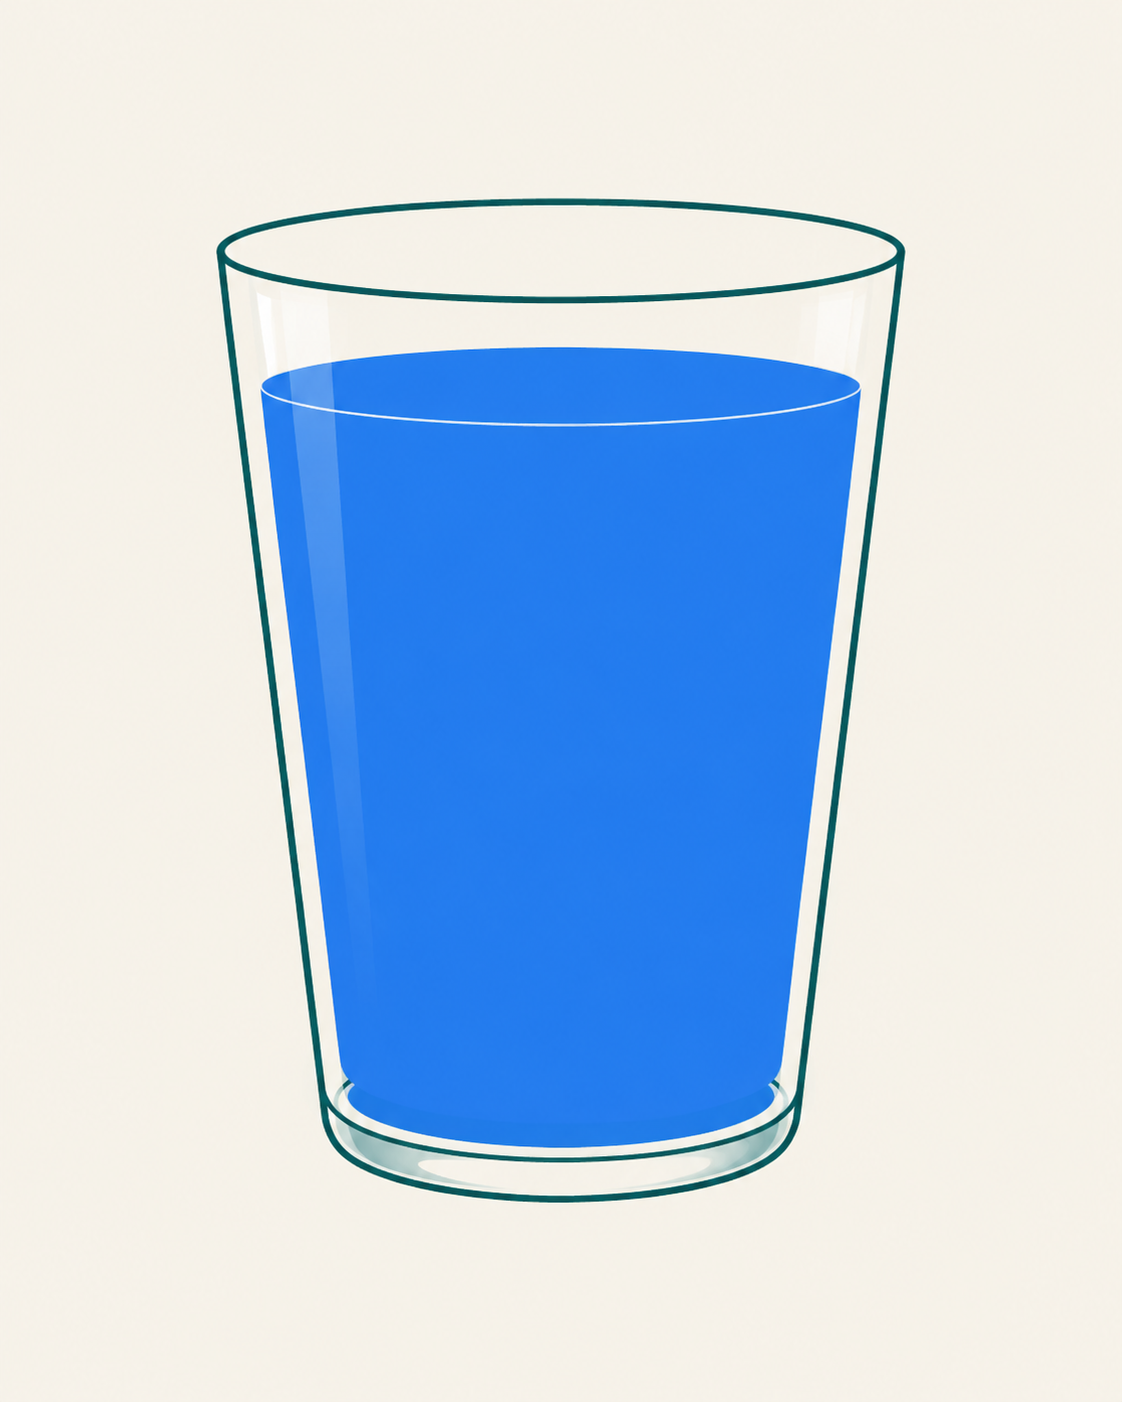
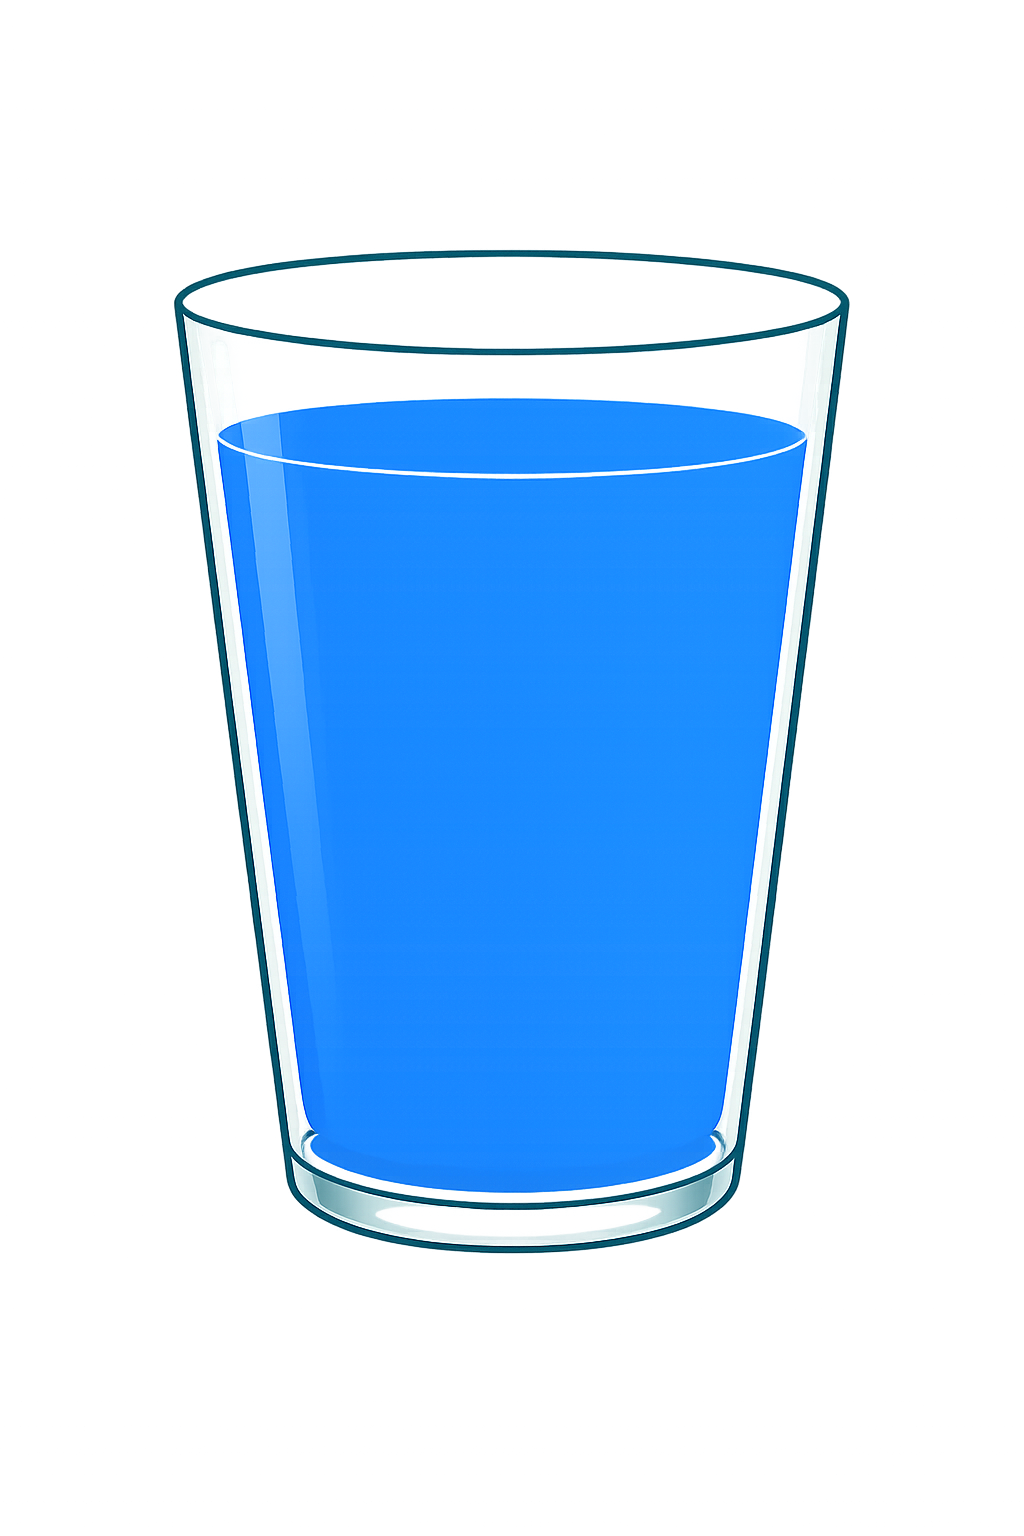
tootbrushing-article

Changed region(s): [[0.1562, 0.1227, 0.8438, 0.8588]]

diff --git a/public/index.html b/public/index.html
@@ -1,7 +1,7 @@
 <!DOCTYPE html>
 <html lang="en">
 <head>
-	<meta name="generator" content="Hugo 0.164.0">
+	<meta name="generator" content="Hugo 0.164.0"><script src="/everyday-data/livereload.js?mindelay=10&amp;v=2&amp;port=1313&amp;path=everyday-data/livereload" data-no-instant defer></script>
   <meta charset="UTF-8">
   <meta name="viewport" content="width=device-width, initial-scale=1.0">
 
@@ -17,7 +17,7 @@
   
   
   
-  <link rel="stylesheet" href="/everyday-data/css/main.min.16a58fdeeed42da3122b3e84695d9fd7b0bcafc7383375226e4e40d5474e558c.css" integrity="sha256-FqWP3u7ULaMSKz6EaV2f17C8r8c4M3Uibk5A1UdOVYw=">
+  <link rel="stylesheet" href="/everyday-data/css/main.min.5c8540642c759a1eeb943991c80d73c1410aba5d9dd9bb0a3038ad2ba4f3d525.css" integrity="sha256-XIVAZCx1mh7rlDmRyA1zwUEKul2d2bsKMDitK6Tz1SU=">
 
 </head>
 <body>
@@ -77,22 +77,24 @@
       <div class="articles-grid">
         
 
-          <div class="card">
+          <a href="/everyday-data/research/toothbrushing-water/" class="card">
             <div>
-              <div class="card-tag">Demo Article</div>
+              <div class="card-tag">
+                Research
+              </div>
 
-              <h2>Welcome to Everyday Data</h2>
+              <h2>Turning the Tap Off While Brushing Teeth</h2>
 
-              <p>
-                Add Markdown files to your content/ folder to see your research articles automatically appear here.
-              </p>
+              <p><p>{{ $glass := .Resources.GetMatch &ldquo;images/glass-250ml.png&rdquo; }}</p>
+<!-- raw HTML omitted -->
+<h1 id="how-much-water-can-one-person-save-while-brushing-teeth">How Much Water Can One Person Save While …</h1></!--></p>
             </div>
 
             <div class="card-footer">
-              <span>Today</span>
-              <span>1 min read</span>
+              <span>Aug 4, 2026</span>
+              <span>4 min read</span>
             </div>
-          </div>
+          </a>
 
         
       </div>
@@ -112,8 +114,8 @@
       
       
       <div class="footer-brand">
-        <a href="/" class="footer-logo">
-          <img src="/everyday-data/images/logo.svg" alt="Everyday Data Logo" width="32" height="32" onerror="this.style.display='none'">
+        <a href="/everyday-data/" class="footer-logo">
+          <img src="/everyday-data/images/logo.png" alt="Everyday Data Logo" width="32" height="32" onerror="this.style.display='none'">
           <span>Everyday Data</span>
         </a>
         <p class="footer-tagline">The data behind everyday decisions.</p>
@@ -123,25 +125,16 @@
       <div class="footer-col">
         <h3>Navigate</h3>
         <ul class="footer-links">
-          <li><a href="/">Home</a></li>
-          <li><a href="/research/">Research</a></li>
-          <li><a href="/about/">About</a></li>
+          <li><a href="/everyday-data/">Home</a></li>
+          <li><a href="/everyday-data/research/">Research</a></li>
+          <li><a href="/everyday-data/about/">About</a></li>
         </ul>
       </div>
 
       
-      <div class="footer-col footer-newsletter">
-        <h3>Stay updated</h3>
-        <p>Get new insights and research directly in your inbox.</p>
-        
-        <form action="#" method="POST" class="newsletter-form">
-          <input type="email" name="email" placeholder="Your email" required aria-label="Your email">
-          <button type="submit" class="btn btn-action">Subscribe</button>
-        </form>
-      </div>
 
       
-      <div class="footer-col">
+      <div class="footer-col footer-social">
         <h3>Follow</h3>
         <div class="social-links">
           
@@ -161,7 +154,7 @@
           </a>
 
           
-          <a href="/privacy/" aria-label="Privacy Policy">
+          <a href="/everyday-data/privacy/" aria-label="Privacy Policy">
             <svg width="20" height="20" viewBox="0 0 24 24" fill="none" stroke="currentColor" stroke-width="2" stroke-linecap="round" stroke-linejoin="round">
               <path d="M12 22s8-4 8-10V5l-8-3-8 3v7c0 6 8 10 8 10z"/>
             </svg>
@@ -176,16 +169,39 @@
     <div class="footer-bottom">
       <p>&copy; 2026 Everyday Data. All rights reserved.</p>
       <div class="footer-bottom-links">
-        <a href="/privacy/">Privacy Policy</a>
+        <a href="/everyday-data/privacy/">Privacy Policy</a>
         <span>•</span>
-        <a href="/terms/">Terms</a>
+        <span>Terms coming soon</span>
       </div>
     </div>
 
   </div>
 </footer>
 
+
  </section>
+
+  <script>
+    window.REQUIRED_CODE_ERROR_MESSAGE = 'Please choose a country code';
+    window.LOCALE = 'en';
+    window.EMAIL_INVALID_MESSAGE = window.SMS_INVALID_MESSAGE = "The information provided is invalid. Please review the field format and try again.";
+    window.REQUIRED_ERROR_MESSAGE = "This field cannot be left blank.";
+    window.GENERIC_INVALID_MESSAGE = "The information provided is invalid. Please review the field format and try again.";
+    window.INVALID_NUMBER = "The information provided is invalid. Please review the field format and try again.";
+    window.INVALID_DATE = "Please enter a valid date";
+    window.REQUIRED_MULTISELECT_MESSAGE = 'Please select at least 1 option';
+    window.translation = {
+      common: {
+        selectedList: '{quantity} list selected',
+        selectedLists: '{quantity} lists selected',
+        selectedOption: '{quantity} selected',
+        selectedOptions: '{quantity} selected',
+      }
+    };
+    var AUTOHIDE = Boolean(1);
+  </script>
+  
+  
 
 </body>
 </html>

diff --git a/assets/css/main.css b/assets/css/main.css
@@ -955,6 +955,23 @@ img {
 }
 
 /* ==========================================================
+   Toothbrushing water visual
+========================================================== */
+
+.glass-animation-item {
+  width: 55px;
+  height: auto;
+}
+
+.glass-test {
+  display: flex;
+  flex-wrap: wrap;
+  gap: 8px;
+  justify-content: center;
+  margin: 2rem 0;
+}
+
+/* ==========================================================
    18. TABLES
 ========================================================== */
 

diff --git a/layouts/shortcodes/glasses.html b/layouts/shortcodes/glasses.html
@@ -1,0 +1,13 @@
+{{ with .Page.Resources.GetMatch "images/glass-250ml.png" }}
+    {{ $glass := . }}
+
+    <div class="glass-test">
+        {{ range seq 48 }}
+            <img class="glass-animation-item" src="{{ $glass.RelPermalink }}" alt="">
+        {{ end }}
+    </div>
+
+    <p class="glass-test-label">
+        48 glasses × 250 ml = 12 litres of water
+    </p>
+{{ end }}

diff --git a/layouts/_default/single.html b/layouts/_default/single.html
@@ -8,7 +8,9 @@
         </header>
 
         <article class="page-body">
+
             {{ .Content }}
+
         </article>
 
     </div>

diff --git a/content/research/toothbrushing-water/index.md b/content/research/toothbrushing-water/index.md
@@ -6,15 +6,16 @@ draft = false
 
 # How Much Water Can One Person Save While Brushing Teeth?
 
+
 We brush our teeth every day. But have you ever wondered how much water flows down the drain while we do it?
 
 It is a small everyday habit, but it gives us a nice opportunity to look at something familiar through data.
 
-And don't worry — this isn't about making you feel guilty for brushing your teeth. Quite the opposite. Let's simply see what the numbers say.
+So, does it actually make a difference? Let's simply see what the numbers say.
 
 ## The question
 
-How much water could one person save by turning off the tap while brushing their teeth?
+How much water could one person save in a year by turning off the tap while brushing their teeth?
 
 To find out, we need just a few pieces of information:
 
@@ -26,7 +27,7 @@ To find out, we need just a few pieces of information:
 
 For this calculation, I use **2 minutes** per brushing because that is the recommended brushing time.
 
-And no, I am definitely **not** suggesting that you brush for less time to save water. 😄
+And no, I am definitely **not** suggesting that you brush for less time to save water. 😄 Your teeth still come first.
 
 Two minutes of good toothbrushing is still two minutes of good toothbrushing. We are simply looking at what happens to the water while we do it.
 
@@ -54,13 +55,11 @@ Using a **250 ml (2.5 dl) glass**:
 
 That means one two-minute brushing session with the tap running uses approximately **48 glasses of water**.
 
-Forty-eight glasses.
-
-That makes 12 litres a little easier to picture.
+{{< glasses >}}
 
 ## What happens over a year?
 
-We don't brush our teeth just once.
+We don't brush our teeth just once. It is recommended to brush twice per day.
 
 If we brush twice a day, every day, the numbers add up:
 
